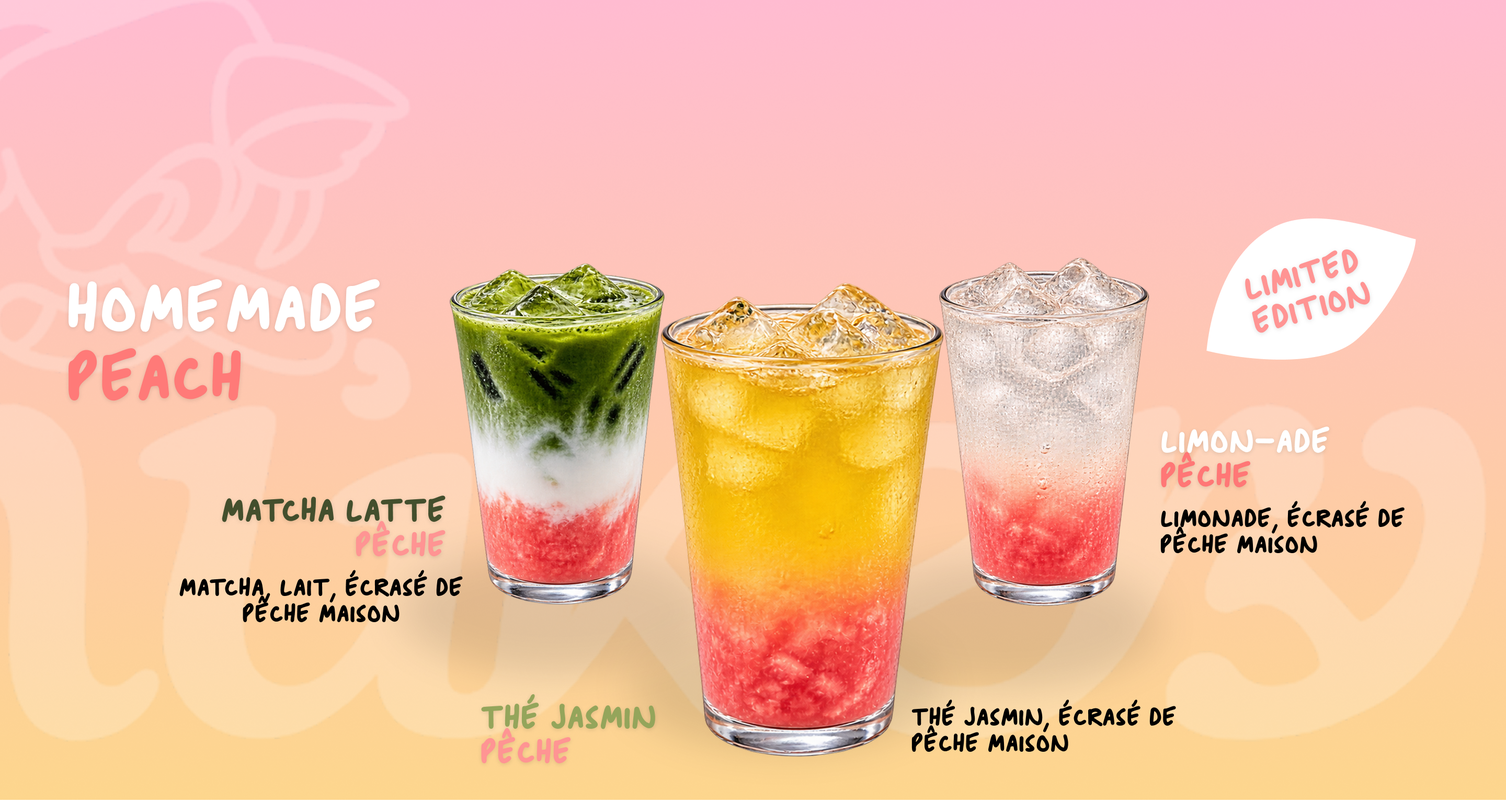
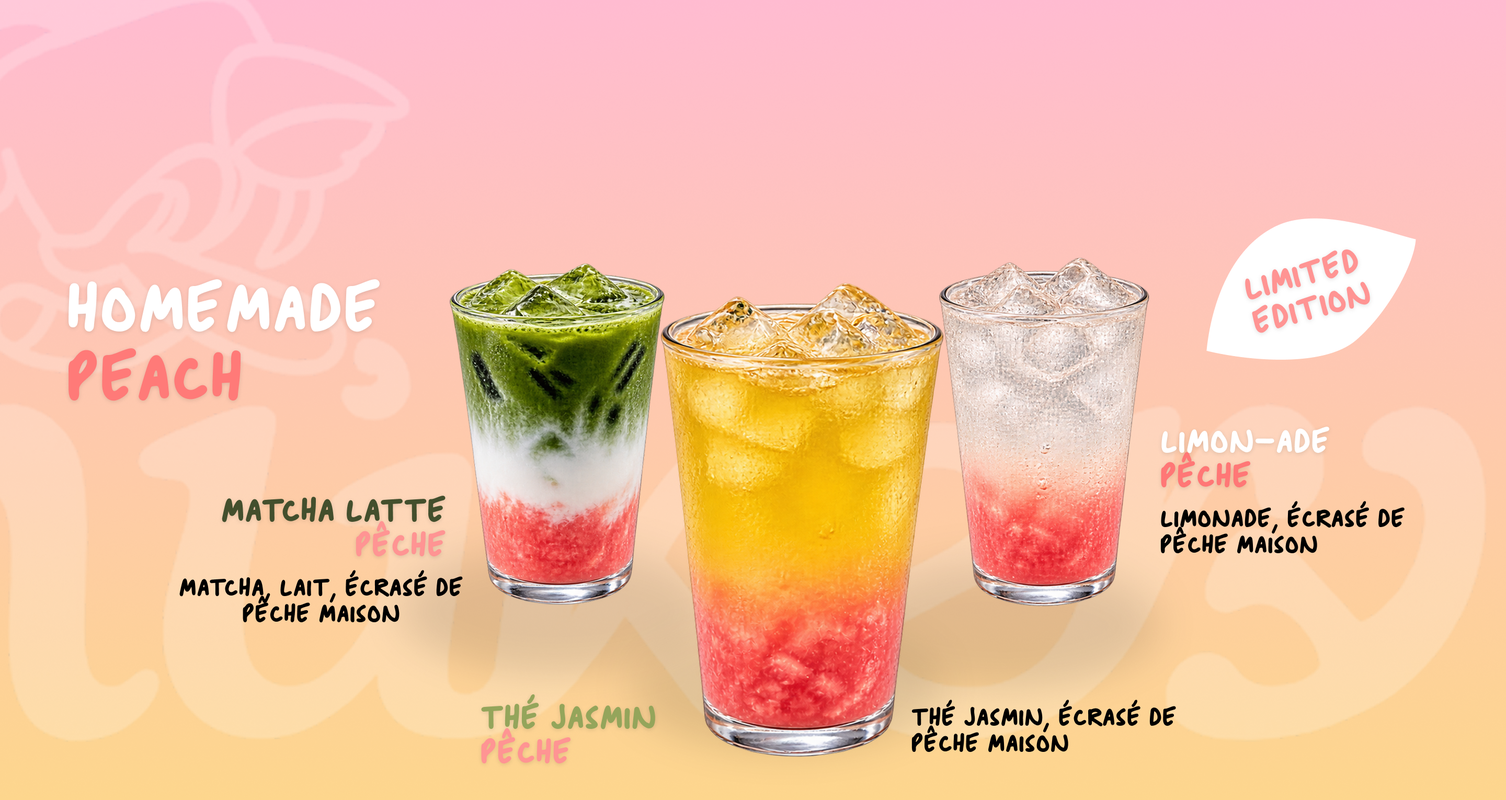
Hero : retire la marge transparente en bas du PNG Tiramisu (trait jaune visible) + Menu mobile en disposition bento comme le desktop
Le PNG Tiramisu exporte avait 34px de marge transparente en bas,
laissant apparaitre le fond jaune du slide juste avant la section
Menu. Recadre au contenu reel (idem sur le PNG Peach par coherence,
marge negligeable).

Menu : le mobile empilait les 3 tuiles en une colonne au lieu de
garder la disposition bento (grande tuile + 2 empilees) du desktop.
Meme grille conservee, juste redimensionnee pour mobile.

diff --git a/style.css b/style.css
@@ -605,9 +605,12 @@ h1,h2,h3,h4{ margin:0; font-weight:600; }
 
   .sk-promo-visual{ padding-bottom:40px; }
   .sk-info{ grid-template-columns:1fr; gap:50px; }
-  .sk-menu-teaser-grid{ grid-template-columns:1fr; grid-template-rows:none; height:auto; }
-  .sk-menu-teaser-tile{ height:280px; }
-  .sk-menu-teaser-tile--big{ grid-row:auto; }
+  .sk-menu-teaser-grid{ height:400px; gap:12px; }
+  .sk-menu-teaser-label{ padding:20px 18px 16px; }
+  .sk-menu-teaser-label h3{ font-size:20px; }
+  .sk-menu-teaser-tile--big .sk-menu-teaser-label{ padding:26px; }
+  .sk-menu-teaser-tile--big .sk-menu-teaser-label h3{ font-size:24px; }
+  .sk-menu-teaser-label p{ font-size:11px; }
   .sk-footer-cols{ padding-left:0; padding-top:28px; }
   .sk-footer-col{ width:auto; }
   .sk-footer{ min-height:0; padding-top:0; }
